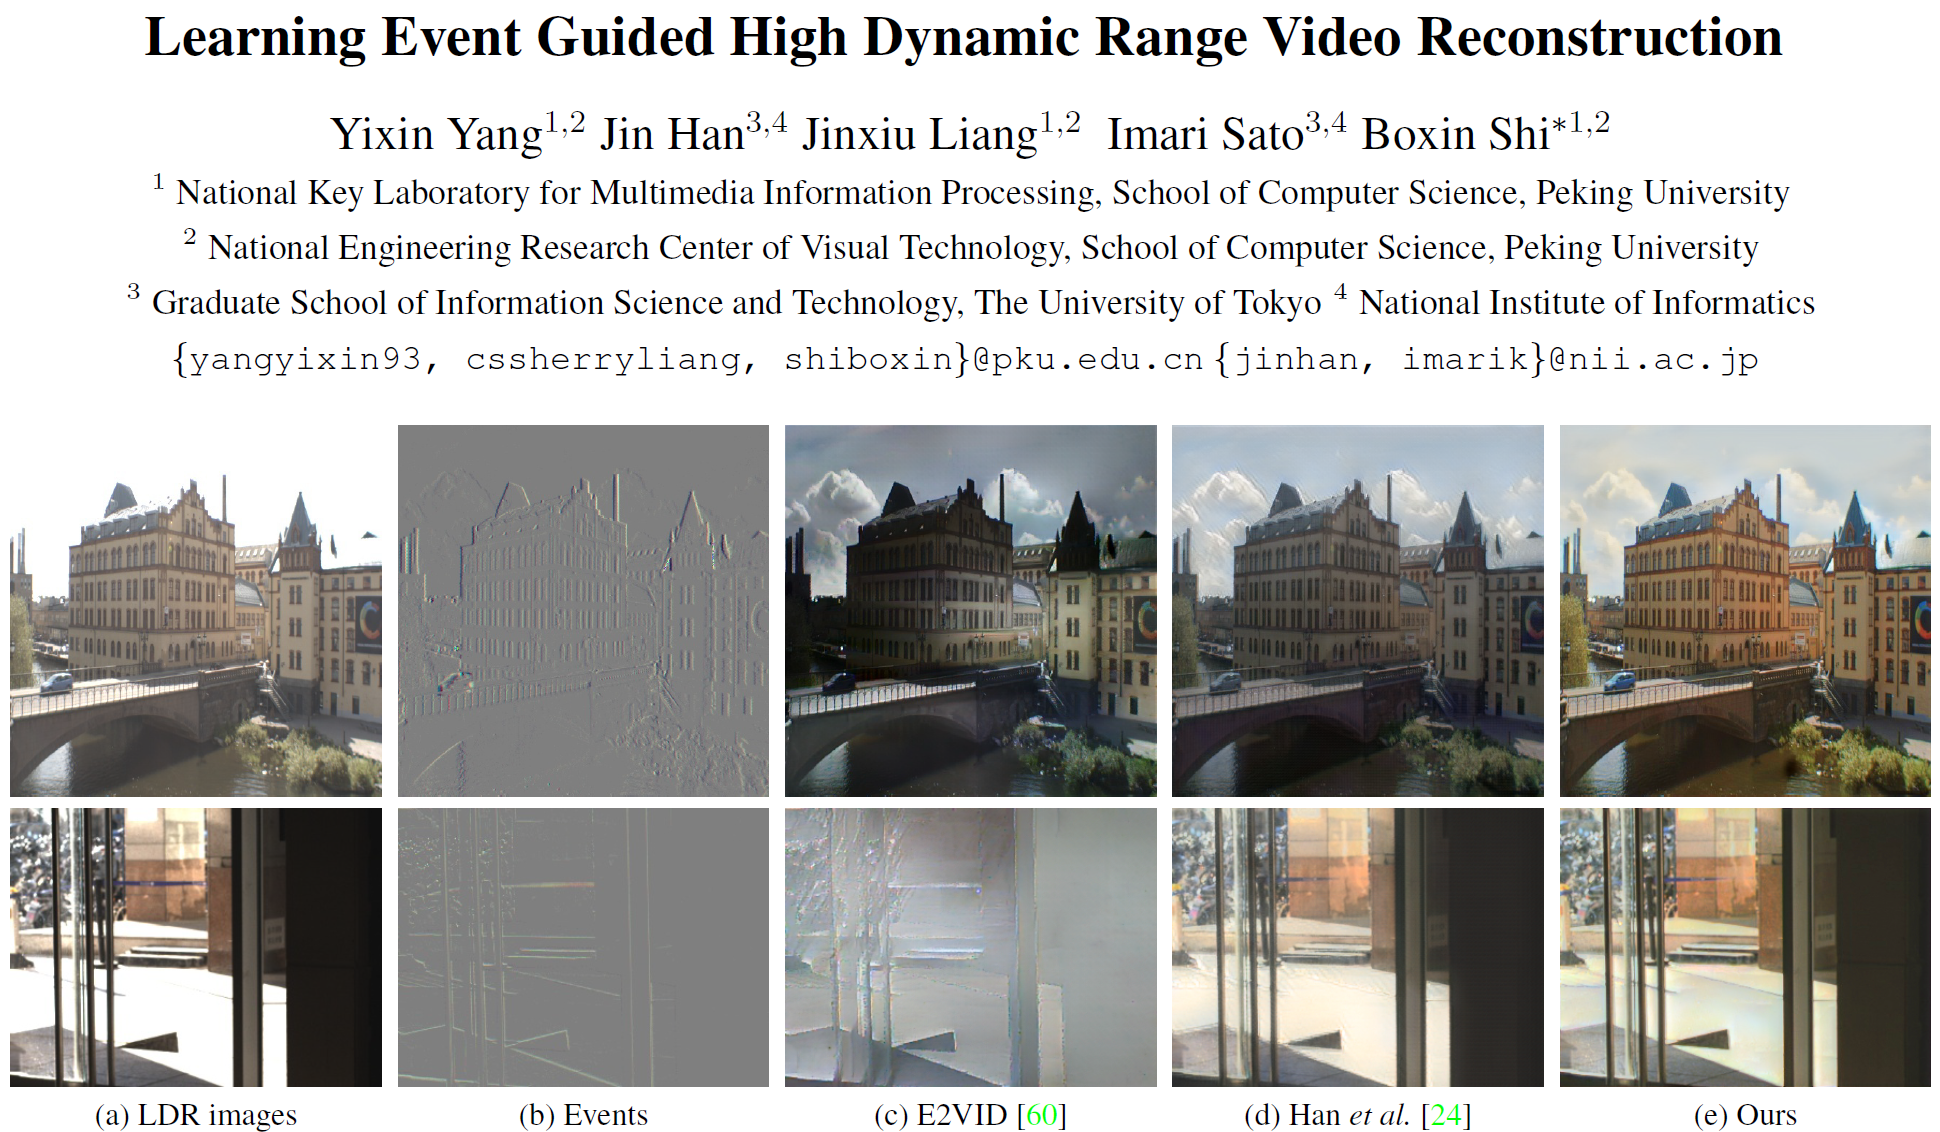
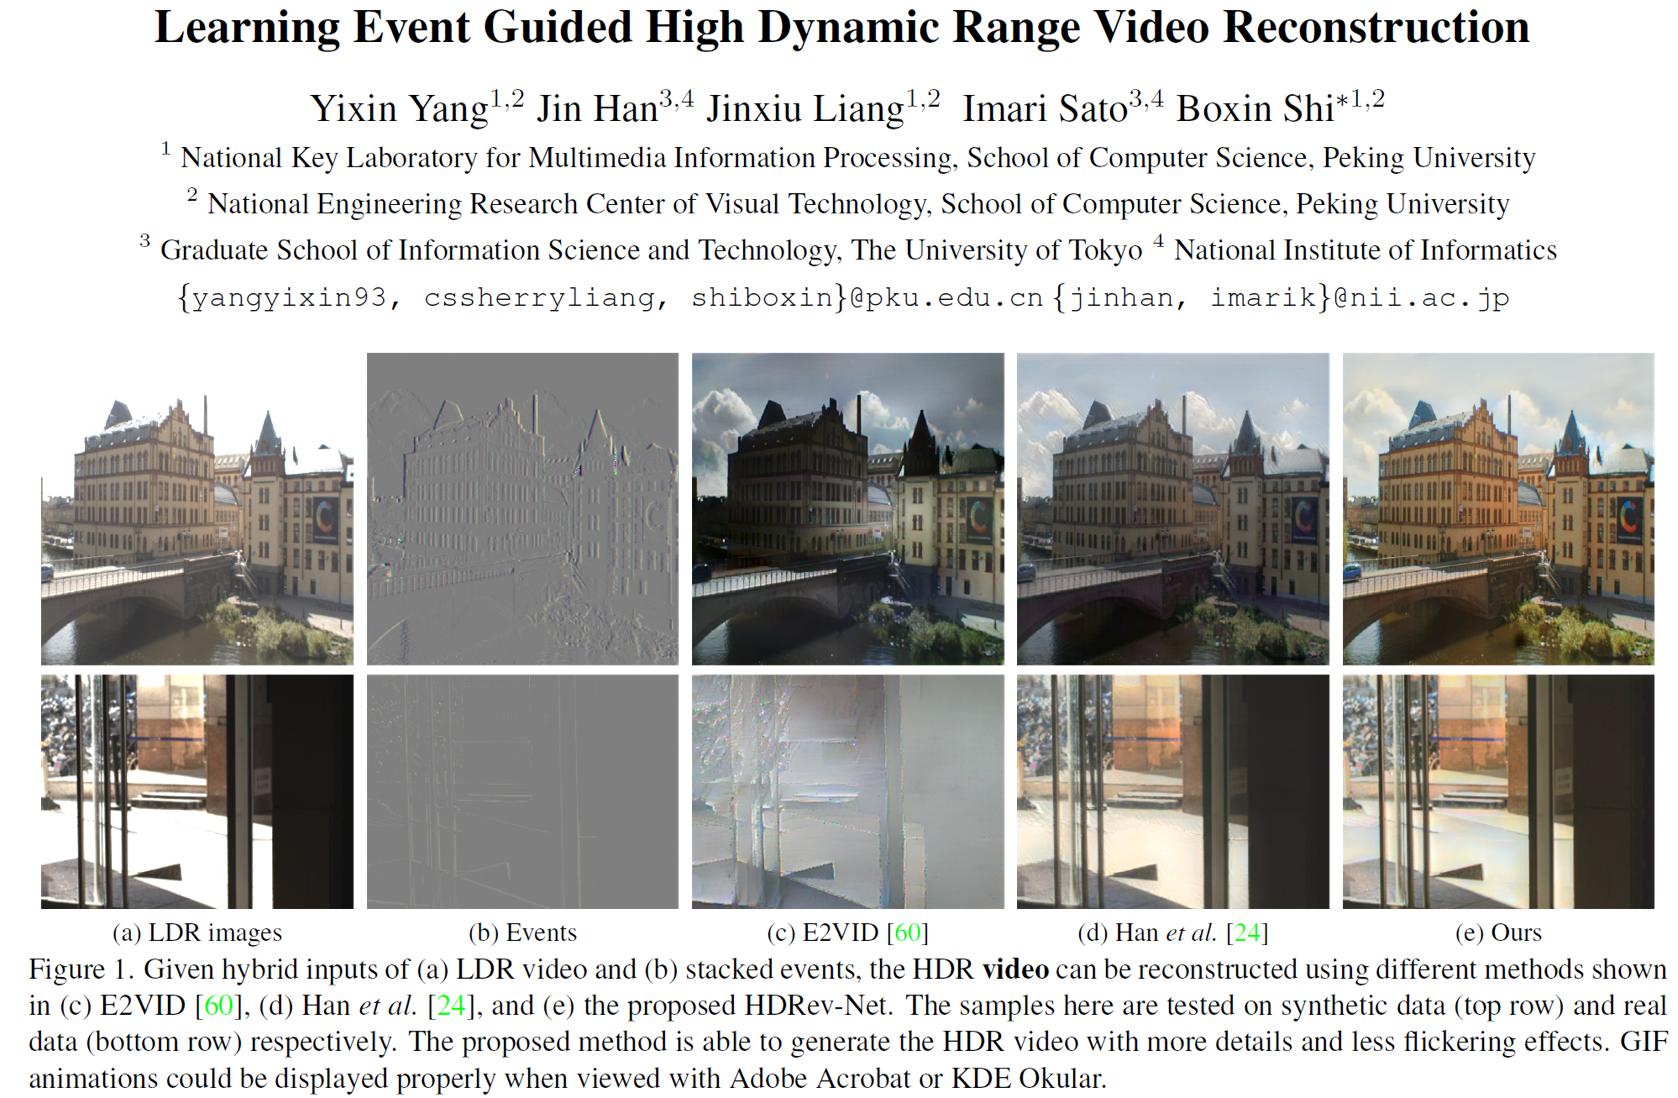
Build website

diff --git a/project/hdrev/index.html b/project/hdrev/index.html
@@ -892,9 +892,9 @@
 </div>
 
 
-<div class="article-header article-container featured-image-wrapper mt-4 mb-4" style="max-width: 720px; max-height: 420px;">
+<div class="article-header article-container featured-image-wrapper mt-4 mb-4" style="max-width: 720px; max-height: 471px;">
   <div style="position: relative">
-    <img src="/project/hdrev/featured_huec0f0064080919093740153b8ac9505e_2910130_720x2500_fit_q75_h2_lanczos_3.webp" width="720" height="420" alt="" class="featured-image">
+    <img src="/project/hdrev/featured_hu2117776543b5986e11ac763c0b592a4f_2532509_720x2500_fit_q75_h2_lanczos_3.webp" width="720" height="471" alt="" class="featured-image">
     
   </div>
 </div>

diff --git a/index.html b/index.html
@@ -1868,7 +1868,7 @@ Highlight your code snippets, take notes on math classes, and draw diagrams from
       
         
         <a href="/project/hdrev/" >
-          <img src="/project/hdrev/featured_huec0f0064080919093740153b8ac9505e_2910130_540x0_resize_q75_h2_lanczos_3.webp" height="315" width="540"
+          <img src="/project/hdrev/featured_hu2117776543b5986e11ac763c0b592a4f_2532509_540x0_resize_q75_h2_lanczos_3.webp" height="353" width="540"
               alt="Learning Event Guided High Dynamic Range Video Reconstruction" loading="lazy">
         </a>
       

diff --git a/post/writing-technical-content/index.html b/post/writing-technical-content/index.html
@@ -952,7 +952,7 @@ data.head()
 
 
 
-<div id="chart-483926517" class="chart"></div>
+<div id="chart-897126543" class="chart"></div>
 <script>
   (function() {
     let a = setInterval( function() {
@@ -962,7 +962,7 @@ data.head()
       clearInterval( a );
 
       Plotly.d3.json("./line-chart.json", function(chart) {
-        Plotly.plot('chart-483926517', chart.data, chart.layout, {responsive: true});
+        Plotly.plot('chart-897126543', chart.data, chart.layout, {responsive: true});
       });
     }, 500 );
   })();

diff --git a/project/index.html b/project/index.html
@@ -851,7 +851,7 @@
     
       
       <a href="/project/hdrev/" >
-        <img src="/project/hdrev/featured_huec0f0064080919093740153b8ac9505e_2910130_150x0_resize_q75_h2_lanczos_3.webp" height="88" width="150"
+        <img src="/project/hdrev/featured_hu2117776543b5986e11ac763c0b592a4f_2532509_150x0_resize_q75_h2_lanczos_3.webp" height="98" width="150"
             alt="Learning Event Guided High Dynamic Range Video Reconstruction" loading="lazy">
       </a>
     

diff --git a/tag/event-cameara/index.html b/tag/event-cameara/index.html
@@ -851,7 +851,7 @@
     
       
       <a href="/project/hdrev/" >
-        <img src="/project/hdrev/featured_huec0f0064080919093740153b8ac9505e_2910130_150x0_resize_q75_h2_lanczos_3.webp" height="88" width="150"
+        <img src="/project/hdrev/featured_hu2117776543b5986e11ac763c0b592a4f_2532509_150x0_resize_q75_h2_lanczos_3.webp" height="98" width="150"
             alt="Learning Event Guided High Dynamic Range Video Reconstruction" loading="lazy">
       </a>
     

diff --git a/tag/hdr/index.html b/tag/hdr/index.html
@@ -851,7 +851,7 @@
     
       
       <a href="/project/hdrev/" >
-        <img src="/project/hdrev/featured_huec0f0064080919093740153b8ac9505e_2910130_150x0_resize_q75_h2_lanczos_3.webp" height="88" width="150"
+        <img src="/project/hdrev/featured_hu2117776543b5986e11ac763c0b592a4f_2532509_150x0_resize_q75_h2_lanczos_3.webp" height="98" width="150"
             alt="Learning Event Guided High Dynamic Range Video Reconstruction" loading="lazy">
       </a>
     
